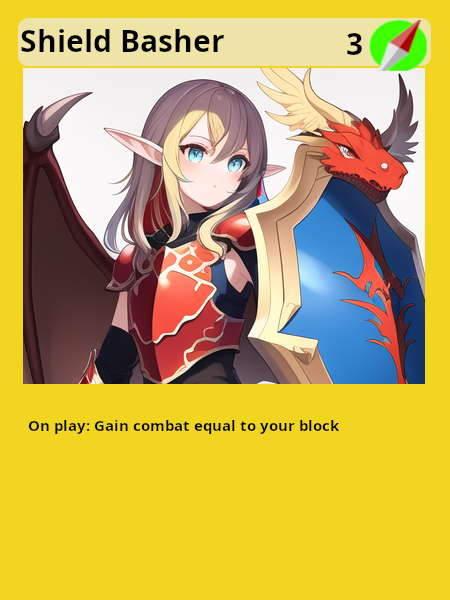
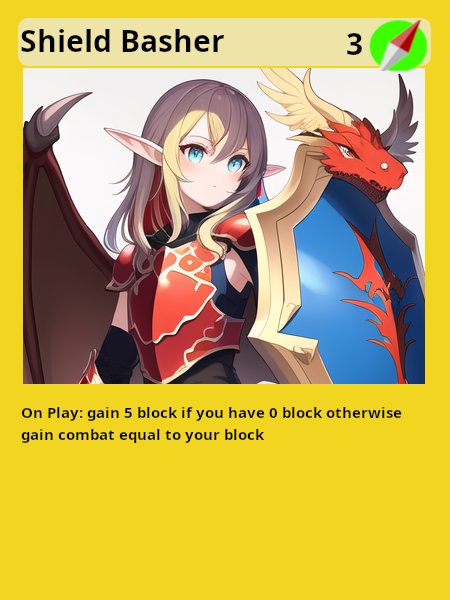
bugfix several cards
- skip cleric banish option if no legal cards found

- bugfix slime monster small damage and reward

- tweak shield basher eff to gain block if you have 0 block

Changed region(s): [[0.0311, 0.66, 0.9022, 0.75]]

diff --git a/internal/cards/cleric.go b/internal/cards/cleric.go
@@ -32,12 +32,15 @@ func (r *Cleric) OnPlay() {
 			availCard = append(availCard, i)
 		}
 	}
-	cardPicker := r.gamestate.GetCardPicker()
-	banishIdx := cardPicker.PickCard(availCard, "Choose Card to banish")
-	banishedCard := availCard[banishIdx]
-	r.gamestate.RemoveCardFromCenterRow(banishedCard)
-	r.gamestate.UpdateCenterCard(banishedCard)
-	r.gamestate.BanishCard(banishedCard, DISCARD_SOURCE_CENTER)
+	if len(availCard) > 0 {
+		cardPicker := r.gamestate.GetCardPicker()
+		banishIdx := cardPicker.PickCard(availCard, "Choose Card to banish")
+		banishedCard := availCard[banishIdx]
+		r.gamestate.RemoveCardFromCenterRow(banishedCard)
+		r.gamestate.UpdateCenterCard(banishedCard)
+		r.gamestate.BanishCard(banishedCard, DISCARD_SOURCE_CENTER)
 
-	r.gamestate.Draw()
+		r.gamestate.Draw()
+	}
+
 }

diff --git a/internal/cards/shield_basher.go b/internal/cards/shield_basher.go
@@ -14,7 +14,7 @@ func (h *ShieldBasher) GetName() string {
 	return "Shield basher"
 }
 func (h *ShieldBasher) GetDescription() string {
-	return "gain combat equal to your block"
+	return "if you have 0 block gain 5 block, otherwise gain combat equal to your block"
 }
 func (h *ShieldBasher) GetCost() Cost {
 	cost := NewCost()
@@ -29,6 +29,11 @@ func (h *ShieldBasher) OnPlay() {
 	// h.state.MutexLock()
 	res := h.state.GetCurrentResource()
 	blockCounter := res.Detail[RESOURCE_NAME_BLOCK]
-	h.state.AddResource(RESOURCE_NAME_COMBAT, blockCounter)
+	if blockCounter == 0 {
+		h.state.AddResource(RESOURCE_NAME_BLOCK, 5)
+	} else {
+		h.state.AddResource(RESOURCE_NAME_COMBAT, blockCounter)
+	}
+
 	// h.state.MutexUnlock()
 }

diff --git a/internal/cards/item/item_factory.go b/internal/cards/item/item_factory.go
@@ -22,6 +22,7 @@ func CreatePotion(name string, state cards.AbstractGamestate) cards.Card {
 	}
 	return nil
 }
+
 func CreateRelicRandom(state cards.AbstractGamestate, rarity int) cards.Card {
 	commonList := []string{}
 	rareList := []string{"CombatGauntlet", "ExplorerBoots", "Regen Amulet"}
@@ -33,7 +34,7 @@ func CreateRelicRandom(state cards.AbstractGamestate, rarity int) cards.Card {
 		allList = append(allList, rareList...)
 	}
 	picked := rand.Int() % len(allList)
-	newPotion := CreatePotion(allList[picked], state)
+	newPotion := CreateRelic(allList[picked], state)
 	return newPotion
 }
 

diff --git a/internal/cards/slime_smal_monster.go b/internal/cards/slime_smal_monster.go
@@ -22,11 +22,11 @@ func (m *SlimeSmall) GetCost() Cost {
 	return cost
 }
 func (m *SlimeSmall) OnPunish() {
-	m.state.TakeDamage(2)
+	m.state.TakeDamage(1)
 }
 func (m *SlimeSmall) OnSlain() {
 	// m.state.AddResource(RESOURCE_NAME_EXPLORATION, 1)
-	m.state.AddResource(RESOURCE_NAME_REPUTATION, 2)
+	m.state.AddResource(RESOURCE_NAME_REPUTATION, 1)
 	// h := []Card{}
 	// for i := 0; i < 3; i++ {
 	// 	midSlime := NewSlimeMid(m.state)
